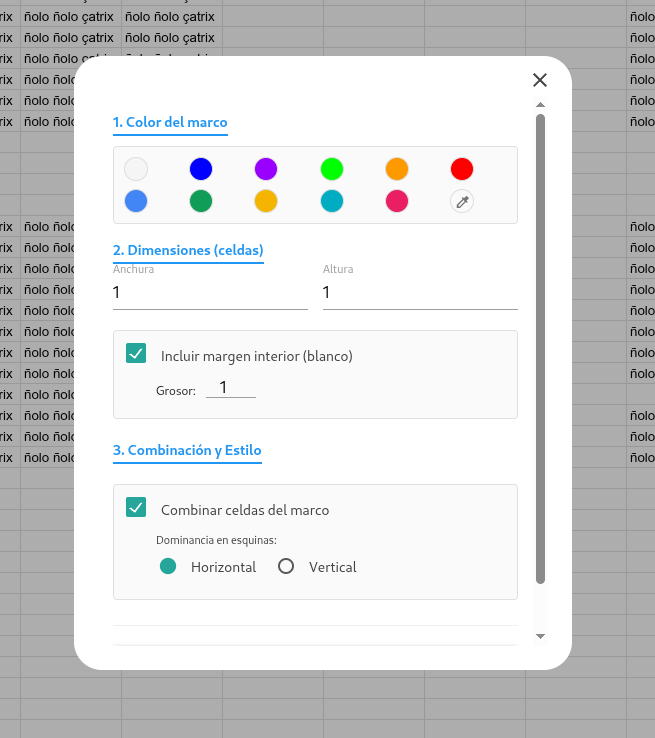
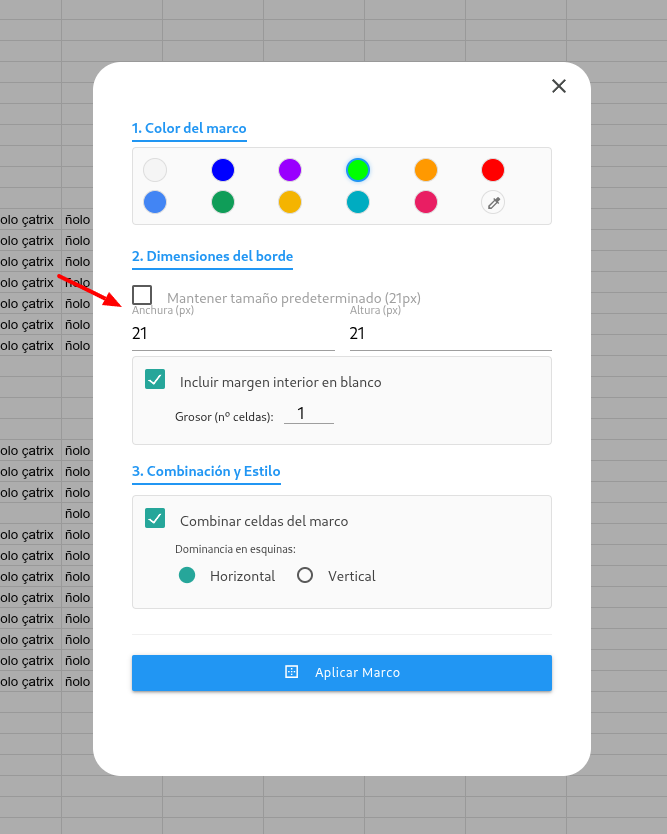
v2.0: Perfeccionamiento de UI en Marcos de Color y Easter Egg del picker

diff --git a/dialogoMarcoColor.html b/dialogoMarcoColor.html
@@ -27,6 +27,21 @@
       .padding-control { display: flex; align-items: center; gap: 10px; margin-top: 5px; padding-left: 30px; }
       .padding-control input { width: 50px !important; height: 1.5rem !important; text-align: center; }
 
+      /* Estilos para Toasts centrados y redondeados */
+      #toast-container {
+        top: 30px !important;
+        right: auto !important;
+        left: 50% !important;
+        transform: translateX(-50%) !important;
+      }
+      .toast {
+        border-radius: 25px !important;
+        background-color: rgba(50, 50, 50, 0.9) !important;
+        justify-content: center !important;
+        min-width: 200px !important;
+        text-align: center !important;
+      }
+
       .footer { margin-top: 25px; border-top: 1px solid #f0f0f0; padding-top: 20px; }
       .btn-small { width: 100%; text-transform: none; display: flex; align-items: center; justify-content: center; height: 36px; }
       #progress-bar { display: none; margin-top: 15px; }
@@ -42,14 +57,14 @@
 
     <div class="section-title" style="margin-top: 5px;">2. Dimensiones del borde</div>
     
-    <div style="margin-top: 10px;">
+    <div style="margin-top: 5px;">
       <label>
         <input type="checkbox" id="mantenerTamano" class="filled-in" onchange="toggleInputsTamano(this.checked)" checked />
-        <span>Mantener tamaño predeterminado (21px)</span>
+        <span>Mantener tamaño predeterminado</span>
       </label>
     </div>
 
-    <div class="row-params" id="inputs-tamano" style="opacity: 0.4; pointer-events: none;">
+    <div class="row-params" id="inputs-tamano" style="opacity: 0.4; pointer-events: none; margin-top: 15px;">
       <div class="input-field">
         <input type="number" id="ancho" value="21" min="1" max="100">
         <label class="active">Anchura (px)</label>
@@ -130,9 +145,29 @@
 
         const custom = document.createElement('div');
         custom.className = 'color-opt';
+        custom.id = 'custom-color-picker';
         custom.innerHTML = '<i class="material-icons">colorize</i>';
-        custom.title = 'Color personalizado...';
+        custom.title = 'Color personalizado... (Botón derecho para truco)';
         custom.onclick = () => document.getElementById('custom-color-input').click();
+        
+        // Easter Egg: Botón derecho para alternar con Verde Google Sheets
+        custom.oncontextmenu = (e) => {
+          e.preventDefault();
+          const esVerdeSheets = custom.dataset.verde === 'true';
+          if (!esVerdeSheets) {
+            custom.style.background = '#0F9D58';
+            custom.innerHTML = '';
+            custom.dataset.verde = 'true';
+            custom.title = 'Verde Google Sheets (#0F9D58)';
+            seleccionarColor('#0F9D58', custom);
+          } else {
+            custom.style.background = '#e0e0e0';
+            custom.innerHTML = '<i class="material-icons">colorize</i>';
+            custom.dataset.verde = 'false';
+            custom.title = 'Color personalizado...';
+          }
+        };
+        
         grid.appendChild(custom);
       });
 